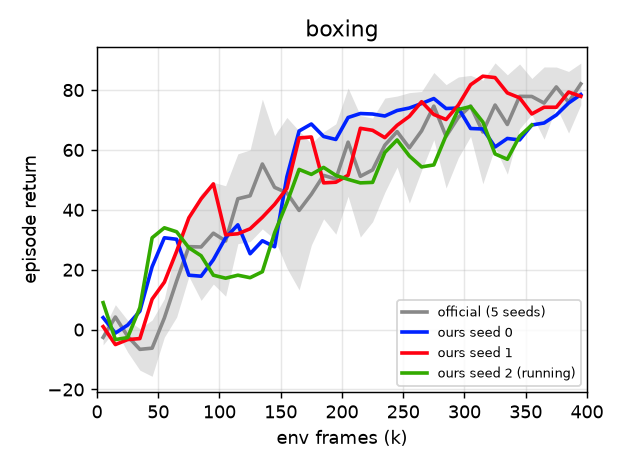
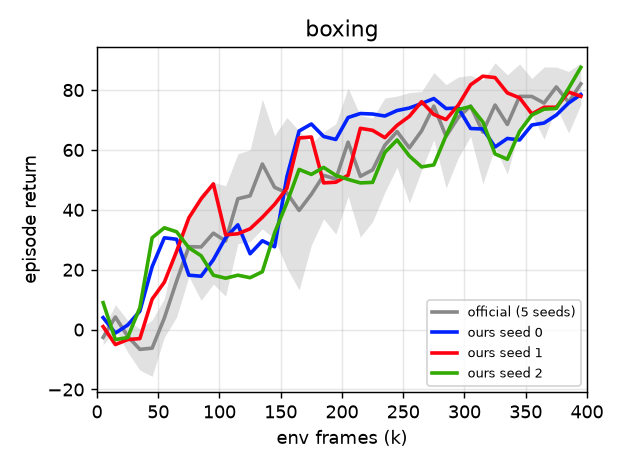
Boxing seed 2 finished

Changed region(s): [[0.609, 0.6282, 0.9135, 0.8376], [0.8221, 0.1795, 0.9135, 0.3291], [0.9135, 0.1496, 0.9439, 0.1795]]

diff --git a/docs/index.md b/docs/index.md
@@ -5,7 +5,7 @@ title: DreamerV3 Reproduction (Week 1)
 
 # DreamerV3 Reproduction — Week 1 (Reproduce)
 
-_Last updated: 2026-11-23 22:10 KST · runs: 14 (finished 13, reproduced 1/6 games)_
+_Last updated: 2026-11-23 22:36 KST · runs: 15 (finished 14, reproduced 2/6 games)_
 
 **Paper:** Hafner et al., *Mastering Diverse Domains through World Models* (DreamerV3), [arXiv 2301.04104](https://arxiv.org/abs/2301.04104), Nature 2025.
 **Code:** [danijar/dreamerv3](https://github.com/danijar/dreamerv3) at commit `e01491f` (Oct 2026), unmodified.
@@ -70,7 +70,7 @@ seed range `[min, max]` widened by one std.
 
 | task | seeds done | ours mean ± std | paper Table 9 | official file mean (min–max, 5 seeds) | gamer-norm ours / paper | curve in band | verdict |
 |---|---|---|---|---|---|---|---|
-| boxing | 2/3 | 78.4 ± 0.4 | 82 | 79.4 (70.2–85.0) | 653.3% / 683.3% | 97% | **reproduced (partial 2/3)** |
+| boxing | 3/3 | 79.5 ± 1.6 | 82 | 79.4 (70.2–85.0) | 662.7% / 683.3% | 90% | **reproduced** |
 | hero | 2/3 | 11644.7 ± 1728.1 | 13354 | 13344.3 (13190.7–13465.0) | 35.6% / 41.4% | 80% | **below official range (partial 2/3)** |
 | krull | 2/3 | 6934.2 ± 790.8 | 8171 | 7683.5 (7365.0–8154.3) | 499.6% / 615.4% | 78% | **below official range (partial 2/3)** |
 | kung_fu_master | 2/3 | 22221.0 ± 1271.0 | 25900 | 23301.7 (18766.7–29533.3) | 97.7% / 114.1% | 82% | **reproduced (partial 2/3)** |
@@ -83,9 +83,10 @@ seed range `[min, max]` widened by one std.
 |---|---|---|---|---|---|---|
 | boxing | 0 | 100% | 78.8 | 79.4 ± 5.7 (70.2–85.0) | 88% | **reproduced** |
 | boxing | 1 | 100% | 78.0 | 79.4 ± 5.7 (70.2–85.0) | 95% | **reproduced** |
-| boxing | 2 | 88% | – | 79.4 ± 5.7 (70.2–85.0) | 81% | **running** |
+| boxing | 2 | 100% | 81.8 | 79.4 ± 5.7 (70.2–85.0) | 82% | **reproduced** |
 | hero | 0 | 100% | 13372.8 | 13344.3 ± 96.5 (13190.7–13465.0) | 90% | **reproduced** |
 | hero | 1 | 100% | 9916.7 | 13344.3 ± 96.5 (13190.7–13465.0) | 70% | **below official range** |
+| hero | 2 | 16% | – | 13344.3 ± 96.5 (13190.7–13465.0) | 57% | **running** |
 | krull | 0 | 100% | 6143.3 | 7683.5 ± 356.4 (7365.0–8154.3) | 70% | **below official range** |
 | krull | 1 | 100% | 7725.0 | 7683.5 ± 356.4 (7365.0–8154.3) | 78% | **reproduced** |
 | kung_fu_master | 0 | 100% | 23492.0 | 23301.7 ± 4398.5 (18766.7–29533.3) | 88% | **reproduced** |

diff --git a/docs/results.md b/docs/results.md
@@ -2,7 +2,7 @@
 
 | task | seeds done | ours mean ± std | paper Table 9 | official file mean (min–max, 5 seeds) | gamer-norm ours / paper | curve in band | verdict |
 |---|---|---|---|---|---|---|---|
-| boxing | 2/3 | 78.4 ± 0.4 | 82 | 79.4 (70.2–85.0) | 653.3% / 683.3% | 97% | **reproduced (partial 2/3)** |
+| boxing | 3/3 | 79.5 ± 1.6 | 82 | 79.4 (70.2–85.0) | 662.7% / 683.3% | 90% | **reproduced** |
 | hero | 2/3 | 11644.7 ± 1728.1 | 13354 | 13344.3 (13190.7–13465.0) | 35.6% / 41.4% | 80% | **below official range (partial 2/3)** |
 | krull | 2/3 | 6934.2 ± 790.8 | 8171 | 7683.5 (7365.0–8154.3) | 499.6% / 615.4% | 78% | **below official range (partial 2/3)** |
 | kung_fu_master | 2/3 | 22221.0 ± 1271.0 | 25900 | 23301.7 (18766.7–29533.3) | 97.7% / 114.1% | 82% | **reproduced (partial 2/3)** |
@@ -15,9 +15,10 @@
 |---|---|---|---|---|---|---|
 | boxing | 0 | 100% | 78.8 | 79.4 ± 5.7 (70.2–85.0) | 88% | **reproduced** |
 | boxing | 1 | 100% | 78.0 | 79.4 ± 5.7 (70.2–85.0) | 95% | **reproduced** |
-| boxing | 2 | 88% | – | 79.4 ± 5.7 (70.2–85.0) | 81% | **running** |
+| boxing | 2 | 100% | 81.8 | 79.4 ± 5.7 (70.2–85.0) | 82% | **reproduced** |
 | hero | 0 | 100% | 13372.8 | 13344.3 ± 96.5 (13190.7–13465.0) | 90% | **reproduced** |
 | hero | 1 | 100% | 9916.7 | 13344.3 ± 96.5 (13190.7–13465.0) | 70% | **below official range** |
+| hero | 2 | 16% | – | 13344.3 ± 96.5 (13190.7–13465.0) | 57% | **running** |
 | krull | 0 | 100% | 6143.3 | 7683.5 ± 356.4 (7365.0–8154.3) | 70% | **below official range** |
 | krull | 1 | 100% | 7725.0 | 7683.5 ± 356.4 (7365.0–8154.3) | 78% | **reproduced** |
 | kung_fu_master | 0 | 100% | 23492.0 | 23301.7 ± 4398.5 (18766.7–29533.3) | 88% | **reproduced** |
